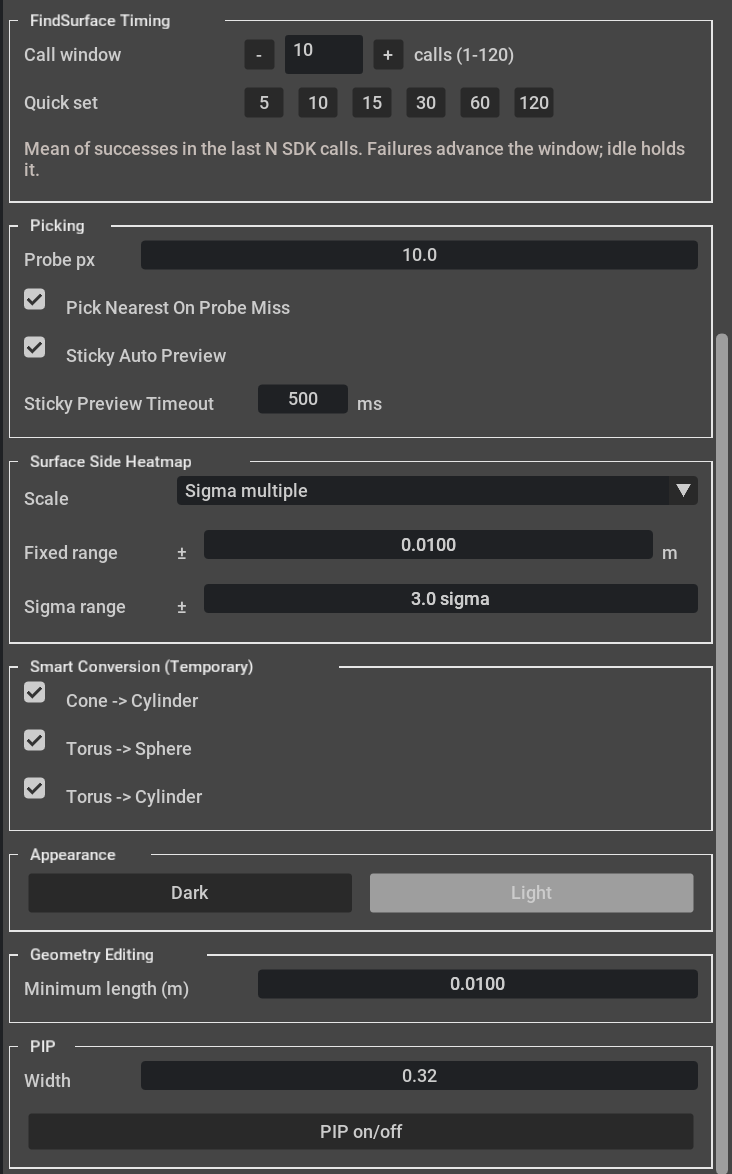
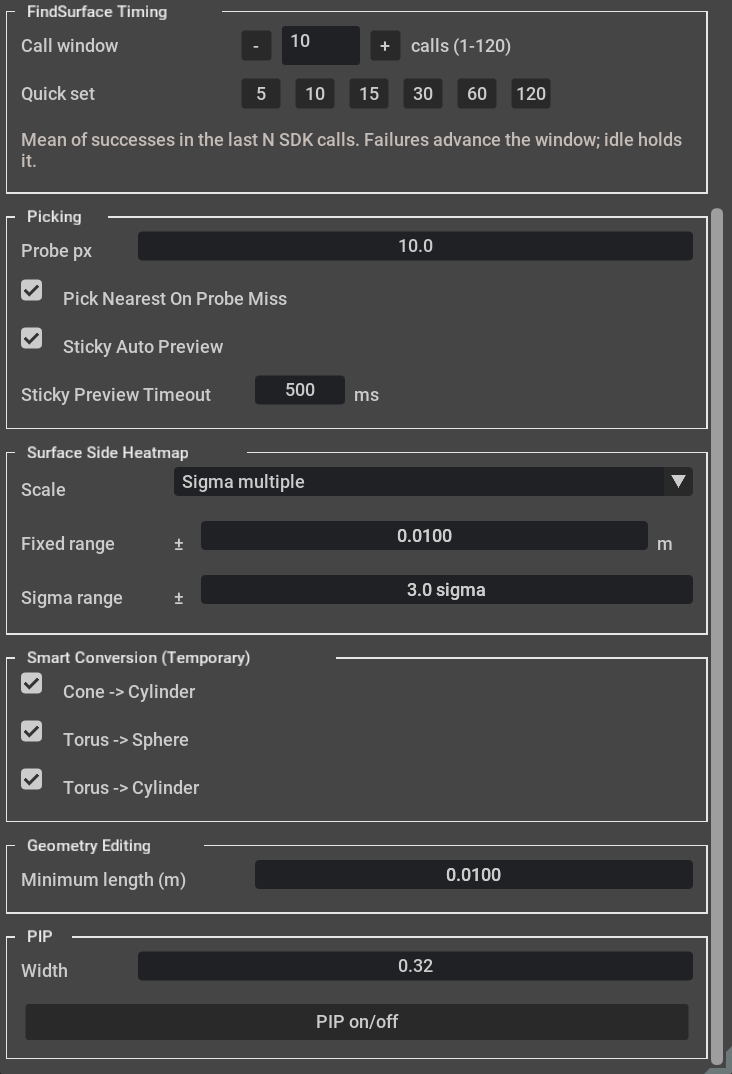
Fix appearance to dark and remove light mode controls

diff --git a/source/extensions/com.curvsurf.findsurface_isaac_sim/findsurface_isaac_sim/classic_ui.py b/source/extensions/com.curvsurf.findsurface_isaac_sim/findsurface_isaac_sim/classic_ui.py
@@ -237,7 +237,6 @@ class ClassicUiChrome:
         self._dock_error = None
         self._dock_attempts = 0
         self._render_window = None
-        self._theme = "classic-dark"
         self._result_overlay_state = None
         self._last_snapshot = initial
         self._viewport_overlays_mounted = False
@@ -577,14 +576,13 @@ class ClassicUiChrome:
                 self._build_result_overlay_histogram(state)
 
     def _build_result_overlay_body(self, state, height: int) -> None:
-        light = self._theme == "classic-light"
         panel = {
-            "background_color": 0xE8F2F2F2 if light else 0x991B1E24,
-            "border_color": 0x88404040 if light else 0x88FFFFFF,
+            "background_color": 0x991B1E24,
+            "border_color": 0x88FFFFFF,
             "border_width": 1,
             "border_radius": 5,
         }
-        title_style = {"color": 0xFF202328 if light else 0xF8FFFFFF, "font_size": 16}
+        title_style = {"color": 0xF8FFFFFF, "font_size": 16}
         with ui.ZStack(width=RESULT_OVERLAY_WIDTH, height=ui.Percent(100)):
             ui.Rectangle(style=panel)
             with ui.VStack(width=RESULT_OVERLAY_WIDTH, height=ui.Percent(100), spacing=0):
@@ -613,9 +611,8 @@ class ClassicUiChrome:
                 ui.Spacer()
 
     def _build_result_overlay_rows(self, state) -> None:
-        light = self._theme == "classic-light"
-        label_style = {"color": 0xFF30343A if light else 0xE8FFFFFF, "font_size": 13}
-        dim_style = {"color": 0xFF646A72 if light else 0xB8FFFFFF, "font_size": 12}
+        label_style = {"color": 0xE8FFFFFF, "font_size": 13}
+        dim_style = {"color": 0xB8FFFFFF, "font_size": 12}
         self._result_overlay_value_labels = []
         row_slots = RESULT_OVERLAY_ANALYSIS_ROW_COUNT if state.histogram_reserved else RESULT_OVERLAY_LIVE_ROW_COUNT
         with ui.VStack(height=row_slots * RESULT_OVERLAY_ROW_HEIGHT, spacing=0):
@@ -633,12 +630,12 @@ class ClassicUiChrome:
         if state.histogram is not None:
             with ui.VStack(spacing=0):
                 ui.Spacer(height=5)
-                self._build_result_histogram(state.histogram, light=self._theme == "classic-light")
+                self._build_result_histogram(state.histogram)
 
-    def _build_result_histogram(self, histogram, *, light: bool, hover_key=None) -> None:
+    def _build_result_histogram(self, histogram, *, hover_key=None) -> None:
         with ui.HStack(height=RESULT_OVERLAY_HISTOGRAM_HEIGHT, spacing=6):
             with ui.VStack(width=ui.Fraction(1), spacing=0):
-                self._build_histogram_chart(histogram, light=light, hover_key=hover_key)
+                self._build_histogram_chart(histogram, hover_key=hover_key)
             with ui.VStack(width=158, spacing=0):
                 for label, value in (
                     ("Samples", f"{histogram.used_count:,}/{histogram.source_count:,}"),
@@ -649,7 +646,7 @@ class ClassicUiChrome:
                         ui.Label(label, width=54)
                         ui.Label(value, width=ui.Fraction(1))
 
-    def _build_histogram_chart(self, histogram, *, light: bool, hover_key=None) -> None:
+    def _build_histogram_chart(self, histogram, *, hover_key=None) -> None:
         bars = tuple(histogram.bars)
         if not bars:
             return
@@ -678,13 +675,13 @@ class ClassicUiChrome:
         spacing = 0
         bar_width = ui.Fraction(1)
         axis_y = RESULT_OVERLAY_HISTOGRAM_BAR_HEIGHT + 5
-        axis_color = 0x99404040 if light else 0x99FFFFFF
+        axis_color = 0x99FFFFFF
         with ui.HStack(height=chart_height, spacing=0):
             ui.Spacer(width=12)
             with ui.ZStack(width=ui.Fraction(1), height=chart_height):
                 ui.Rectangle(style={
-                    "background_color": 0x22FFFFFF if light else 0x331B1E24,
-                    "border_color": 0x66404040 if light else 0x66FFFFFF,
+                    "background_color": 0x331B1E24,
+                    "border_color": 0x66FFFFFF,
                     "border_width": 1,
                     "border_radius": 3,
                 })
@@ -712,7 +709,6 @@ class ClassicUiChrome:
                                     style={
                                         "background_color": _heatmap_ui_color(
                                             bar.heat_coordinate,
-                                            light=light,
                                         )
                                     },
                                 )
@@ -1549,7 +1545,6 @@ class ClassicUiChrome:
                     )
                     self._build_result_histogram(
                         histogram,
-                        light=self._theme == "classic-light",
                         hover_key=(str(capture_id), str(basis)),
                     )
 
@@ -2802,10 +2797,6 @@ class ClassicUiChrome:
                 with ui.HStack(height=26, spacing=6):
                     ui.CheckBox(model=self.property_models[f"settings.{name}"], width=22)
                     ui.Label(label)
-        with BorderedGroupView("Appearance", row_heights=(32,)):
-            with ui.HStack(height=32, spacing=6):
-                ui.Button("Dark", clicked_fn=lambda: self._property_dispatch("settings.theme", "classic-dark"))
-                ui.Button("Light", clicked_fn=lambda: self._property_dispatch("settings.theme", "classic-light"))
         with BorderedGroupView("Geometry Editing", row_heights=(26,)):
             with ui.HStack(height=26, spacing=6):
                 ui.Label("Minimum length (m)", width=150)
@@ -3228,38 +3219,6 @@ class ClassicUiChrome:
         if self._viewport_overlays_mounted:
             self.sync_modal(snapshot)
 
-    @property
-    def theme(self) -> str:
-        return self._theme
-
-    def set_theme(self, theme: str) -> None:
-        theme = str(theme)
-        if theme not in ("classic-dark", "classic-light"):
-            raise ValueError("theme must be classic-dark or classic-light")
-        self._theme = theme
-        light = theme == "classic-light"
-        overlay_style = {
-            "background_color": 0xDDF2F2F2 if light else 0xCC10151C,
-            "color": 0xFF202328 if light else 0xFFE8EBEF,
-            "margin": 7,
-        }
-        for label in (self.sensor_overlay, self.rtx_overlay, self.analysis_overlay):
-            if label is not None:
-                label.style = overlay_style
-        result_state = self._result_overlay_state
-        self._result_overlay_state = None
-        if result_state is not None:
-            self.result_overlay_frame.clear()
-            self._result_overlay_header_icon = None
-            self._refresh_result_overlay(result_state)
-        self._queue_geometry_property_refresh()
-        self._toolbar_stack.style = _toolbar_style(light=light)
-        self.status_label.style = {
-            "background_color": 0xFFF0F0F0 if light else 0xFF171A20,
-            "color": 0xFF202328 if light else 0xFFE8EBEF,
-            "margin": 0,
-        }
-
     def sync_modal(self, snapshot: ShellSnapshot) -> None:
         if self._modal_overlay is None:
             return
@@ -3527,10 +3486,10 @@ def _tool_flags() -> int:
     return flags
 
 
-def _toolbar_style(*, light: bool = False) -> dict:
-    icon = 0xFF202328 if light else 0xFFFFFFFF
-    disabled = 0xFF999DA4 if light else 0xFF686D76
-    render_style = style_for_theme(RenderTheme.IVORY_LIGHT if light else RenderTheme.EDITOR_DARK)
+def _toolbar_style() -> dict:
+    icon = 0xFFFFFFFF
+    disabled = 0xFF686D76
+    render_style = style_for_theme(RenderTheme.EDITOR_DARK)
     def packed_color(rgba):
         r, g, b, a = (round(value * 255) for value in rgba)
         return (a << 24) | (b << 16) | (g << 8) | r
@@ -3590,11 +3549,10 @@ def _fraction_offset(fraction: float, width: int) -> int:
     return max(0, min(width - 1, int(fraction * (width - 1) + 0.5)))
 
 
-def _heatmap_ui_color(coordinate: float, *, light: bool = False) -> int:
+def _heatmap_ui_color(coordinate: float) -> int:
     """Match the renderer's negative-blue/zero-yellow/positive-red heatmap."""
 
-    theme = RenderTheme.IVORY_LIGHT if light else RenderTheme.EDITOR_DARK
-    rgba = heatmap_color(style_for_theme(theme), coordinate)
+    rgba = heatmap_color(style_for_theme(RenderTheme.EDITOR_DARK), coordinate)
     channels = [max(0, min(255, int(round(value * 255.0)))) for value in rgba]
     return (channels[3] << 24) | (channels[2] << 16) | (channels[1] << 8) | channels[0]
 

diff --git a/tests/test_dark_appearance.py b/tests/test_dark_appearance.py
@@ -1,0 +1,55 @@
+"""Dark-only appearance and compatibility with previously saved theme settings."""
+import copy
+import json
+from pathlib import Path
+import sys
+import tempfile
+import unittest
+
+ROOT = Path(__file__).resolve().parents[1]
+PACKAGE = ROOT / "source/extensions/com.curvsurf.findsurface_isaac_sim"
+sys.path.insert(0, str(PACKAGE))
+
+from findsurface_isaac_sim.command_facade import session_from_config
+from findsurface_isaac_sim.config import DEFAULT_APP_CONFIG, load_app_config, write_app_config
+from findsurface_isaac_sim.render_layers import RenderTheme, heatmap_color, style_for_theme
+from findsurface_isaac_sim.user_preferences import load_user_preferences
+
+
+class DarkAppearanceTests(unittest.TestCase):
+    def test_only_dark_render_style_is_supported(self):
+        self.assertEqual(tuple(RenderTheme), (RenderTheme.EDITOR_DARK,))
+        style = style_for_theme(RenderTheme.EDITOR_DARK)
+        self.assertEqual(style.background, (0.035, 0.05, 0.075, 1.0))
+        self.assertEqual(heatmap_color(style, 0.5), (1.0, 1.0, 0.0, 1.0))
+
+    def test_legacy_light_config_is_ignored_and_not_written_back(self):
+        config = copy.deepcopy(DEFAULT_APP_CONFIG)
+        config["theme"] = "classic-light"
+        with tempfile.TemporaryDirectory() as folder:
+            path = Path(folder) / "config.json"
+            path.write_text(json.dumps(config), encoding="utf-8")
+            loaded = load_app_config(path)
+            self.assertNotIn("theme", loaded.config)
+            self.assertFalse(hasattr(session_from_config(loaded.config), "theme"))
+            write_app_config(path, config)
+            self.assertNotIn("theme", json.loads(path.read_text(encoding="utf-8")))
+
+    def test_legacy_preference_does_not_restore_light(self):
+        loaded = load_user_preferences(DEFAULT_APP_CONFIG, json.dumps({
+            "schema_version": 1, "theme": "classic-light", "display": {"point_size": 3.0},
+        }))
+        self.assertTrue(loaded.loaded, loaded.diagnostic)
+        self.assertNotIn("theme", loaded.config)
+        self.assertEqual(session_from_config(loaded.config).interaction.point_rendering_size, 3.0)
+
+    def test_ui_and_dispatch_no_longer_offer_theme_changes(self):
+        for name in ("classic_ui.py", "extension.py", "ui_shell.py"):
+            source = (PACKAGE / "findsurface_isaac_sim" / name).read_text(encoding="utf-8")
+            self.assertNotIn("settings.theme", source)
+            self.assertNotIn("classic-light", source)
+            self.assertNotIn("state.theme", source)
+
+
+if __name__ == "__main__":
+    unittest.main()

diff --git a/source/extensions/com.curvsurf.findsurface_isaac_sim/findsurface_isaac_sim/command_facade.py b/source/extensions/com.curvsurf.findsurface_isaac_sim/findsurface_isaac_sim/command_facade.py
@@ -302,7 +302,6 @@ class SessionSnapshot:
     visibility: VisibilityState
     primary_view: PrimaryView
     sensor: SensorSetting
-    theme: str
     point_depth_offset_m: float
     interaction: InteractionSettings
     captures: tuple[CapturePresentation, ...] = ()
@@ -516,16 +515,6 @@ class CommandFacade:
         self._record(_HistoryEntry("Change FindSurface parameters", before, replace(before, detection=options)))
         return self._snapshot
 
-    def set_theme(self, theme: str) -> SessionSnapshot:
-        self._require_ready()
-        theme = str(theme)
-        if theme not in ("classic-dark", "classic-light"):
-            raise ValueError("theme must be classic-dark or classic-light")
-        before = self._snapshot
-        if theme == before.theme:
-            return before
-        self._record(_HistoryEntry(f"Set theme {theme}", before, replace(before, theme=theme)))
-        return self._snapshot
 
     def set_point_depth_offset(self, offset_m: float) -> SessionSnapshot:
         self._require_ready()
@@ -869,7 +858,6 @@ class CommandFacade:
                 enabled=before.sensor.enabled,
                 follows_camera=before.sensor.follows_camera,
             ),
-            theme=defaults.theme,
             point_depth_offset_m=defaults.point_depth_offset_m,
             interaction=defaults.interaction,
         )
@@ -1128,7 +1116,6 @@ def session_from_config(config: Mapping[str, object]) -> SessionSnapshot:
                 str(material.get("attribute", "emissive")),
             ),
         ),
-        str(config["theme"]),
         float(config["renderer"].get("point_depth_offset_m", 0.006)),
         InteractionSettings(
             point_rendering_size=float(display.get("point_size", 2.5)),

diff --git a/source/extensions/com.curvsurf.findsurface_isaac_sim/findsurface_isaac_sim/extension.py b/source/extensions/com.curvsurf.findsurface_isaac_sim/findsurface_isaac_sim/extension.py
@@ -1591,7 +1591,6 @@ class FindSurfaceIsaacSimExtension(omni.ext.IExt):
                 frame = await coordinator.scan_once()
                 if frame is None and not coordinator.snapshot.no_returns:
                     raise RuntimeError(coordinator.snapshot.error or "Default settings scan failed")
-            self._chrome.set_theme(state.theme)
             self._anti_aliasing_mode, self._pip_visible, self._pip_width = display
             settings = carb.settings.get_settings()
             settings.set_int("/rtx/post/aa/op", int(self._anti_aliasing_mode))
@@ -2290,9 +2289,6 @@ class FindSurfaceIsaacSimExtension(omni.ext.IExt):
     def _handle_settings_and_graphics_property(self, action: str, value):
         if action == "settings.restore_defaults":
             return self._schedule_settings_defaults()
-        elif action == "settings.theme":
-            self._facade.set_theme(str(value))
-            self._chrome.set_theme(str(value))
         elif action == "settings.inlier_size":
             self._facade.set_interaction(inlier_rendering_size=float(value))
         elif action == "settings.point_size":
@@ -2719,9 +2715,7 @@ class FindSurfaceIsaacSimExtension(omni.ext.IExt):
         if merged_inliers is not None:
             point_layers += (merged_inliers,)
         self._render_revision += 1
-        style = style_for_theme(
-            RenderTheme.IVORY_LIGHT if state.theme == "classic-light" else RenderTheme.EDITOR_DARK
-        )
+        style = style_for_theme(RenderTheme.EDITOR_DARK)
         point_size = state.interaction.point_rendering_size
         style = replace(
             style,

diff --git a/source/extensions/com.curvsurf.findsurface_isaac_sim/findsurface_isaac_sim/render_layers.py b/source/extensions/com.curvsurf.findsurface_isaac_sim/findsurface_isaac_sim/render_layers.py
@@ -27,7 +27,6 @@ IDENTITY_MATRIX = (
 
 class RenderTheme(str, Enum):
     EDITOR_DARK = "editor-dark"
-    IVORY_LIGHT = "ivory-light"
 
 
 class RenderLayer(str, Enum):
@@ -131,21 +130,6 @@ class RenderStyle:
 
 def style_for_theme(theme: RenderTheme | str) -> RenderStyle:
     theme = RenderTheme(theme)
-    if theme is RenderTheme.IVORY_LIGHT:
-        return RenderStyle(
-            theme,
-            (0.965, 0.945, 0.875, 1.0),
-            (0.22, 0.52, 0.72, 0.24), (0.055, 0.19, 0.28, 1.0),
-            (0.18, 0.76, 0.58, 0.28), (0.02, 0.29, 0.19, 1.0),
-            (0.38, 0.82, 0.68, 0.24), (0.02, 0.36, 0.22, 1.0),
-            (1.0, 0.58, 0.08, 0.24), (0.44, 0.20, 0.01, 1.0),
-            (0.04, 0.16, 0.28, 1.0), (0.12, 0.25, 0.37, 1.0),
-            (0.055, 0.065, 0.075, 1.0),
-            (0.0, 0.22, 1.0, 1.0), (1.0, 0.78, 0.0, 1.0), (1.0, 0.02, 0.0, 1.0),
-            (1.0, 0.03, 0.03, 1.0), (0.58, 0.10, 0.82, 1.0), (0.52, 0.18, 0.0, 1.0),
-            (0.96, 0.43, 0.05, 0.10), (0.52, 0.18, 0.0, 1.0),
-            seed_radius_color=(0.055, 0.065, 0.075, 0.9),
-        )
     return RenderStyle(
         theme,
         (0.035, 0.05, 0.075, 1.0),

diff --git a/source/extensions/com.curvsurf.findsurface_isaac_sim/findsurface_isaac_sim/config.py b/source/extensions/com.curvsurf.findsurface_isaac_sim/findsurface_isaac_sim/config.py
@@ -172,7 +172,6 @@ DEFAULT_APP_CONFIG: dict[str, Any] = {
         "auto_preview": True,
     },
     "visibility": {"source": True, "detected": True, "captured": True, "points": True},
-    "theme": "classic-dark",
     "findsurface_ui": {
         "ranges": [[0.001, 0.1], [0.01, 0.2], [0.05, 2.0]],
     },
@@ -217,6 +216,7 @@ def durable_config(config: Mapping[str, Any]) -> dict[str, Any]:
         for key, value in config.items()
         if key not in TRANSIENT_TOP_LEVEL_KEYS
     }
+    durable.pop("theme", None)
     if isinstance(durable.get("renderer"), dict):
         durable["renderer"]["scene_view"] = "OpenGL"
     return durable
@@ -256,6 +256,7 @@ def load_app_config(path: os.PathLike[str] | str | None = None) -> AppConfigLoad
         except (TypeError, ValueError, OverflowError) as error:
             return _fallback(destination, "config-axial-error-invalid", error)
     merged = deep_merge(DEFAULT_APP_CONFIG, loaded)
+    merged.pop("theme", None)
     merged["schema_version"] = SCHEMA_VERSION
     if isinstance(merged.get("renderer"), dict):
         merged["renderer"]["scene_view"] = "OpenGL"

diff --git a/source/extensions/com.curvsurf.findsurface_isaac_sim/findsurface_isaac_sim/user_preferences.py b/source/extensions/com.curvsurf.findsurface_isaac_sim/findsurface_isaac_sim/user_preferences.py
@@ -264,6 +264,7 @@ def load_user_preferences(
         # Retired ruler-only units must not invalidate the remaining saved settings.
         if isinstance(payload.get("display"), dict):
             payload["display"].pop("ruler_unit", None)
+        payload.pop("theme", None)
         overrides = _validated_overrides(payload)
         sensor_override = overrides.get("sensor", {})
         migrate_distance_error_sensor(sensor_override, base["sensor"]["axial_error_slope_m_per_m"])

diff --git a/source/extensions/com.curvsurf.findsurface_isaac_sim/findsurface_isaac_sim/ui_shell.py b/source/extensions/com.curvsurf.findsurface_isaac_sim/findsurface_isaac_sim/ui_shell.py
@@ -361,7 +361,6 @@ class ClassicShellModel:
                 ("Point clouds", "Sizes and colors"),
             )),
             PropertySection(PropertyTab.SETTINGS, (
-                ("Theme", state.theme),
                 ("Picking probe", f"{state.interaction.probe_radius_px:.1f} px"),
                 ("Probe miss", "Nearest" if state.interaction.pick_nearest_on_probe_miss else "No pick"),
                 ("Sticky preview", (

diff --git a/MANUAL.md b/MANUAL.md
@@ -396,7 +396,7 @@ additional error model shared by both sensor families.
 | **Outlier Removal** | Enables or disables the DepthSensor's outlier-removal processing for subsequent scans. |
 | **Frozen cloud > Export .xyz** | Writes the currently frozen cloud as text lines of `x y z` in metres. Disabled until a suitable frozen cloud exists; the row below reports the outcome. |
 
-<img src="docs/images/manual/settings-interaction.png" width="488" alt="FindSurface Timing, picking, sticky preview, heatmap scale, conversion, theme, and PIP settings">
+<img src="docs/images/manual/settings-interaction.png" width="488" alt="FindSurface Timing, picking, sticky preview, heatmap scale, conversion, and PIP settings">
 
 | UI element | Meaning |
 |---|---|
@@ -407,7 +407,6 @@ additional error model shared by both sensor families.
 | **Surface Side Heatmap > Scale** | Selects Auto (full range), Fixed distance, or Sigma multiple for mapping signed surface-side distance to colors. The default for both DepthSensor and LiDAR is Sigma with multiplier 3. |
 | **Surface Side Heatmap > Fixed range / Sigma range** | Sets the `±` distance in metres or the `±` standard-deviation multiplier for the selected scale mode. Neither changes the measured residuals. |
 | **Smart Conversion (Temporary) > Cone → Cylinder / Torus → Sphere / Torus → Cylinder** | Separately enables the three conditional FindSurface result conversions for diagnostic comparison. A checked option does not force every result to convert. |
-| **Appearance > Dark / Light** | Switches the application UI theme. |
 | **Geometry Editing > Minimum length (m)** | Lower bound applied when a metre-valued Objects dimension is next edited; raising it does not immediately rewrite existing dimensions. |
 | **PIP > Width / PIP on/off** | Sets the picture-in-picture width fraction or hides/shows the secondary view. It does not switch which view is primary; use `P` for that. |
 
